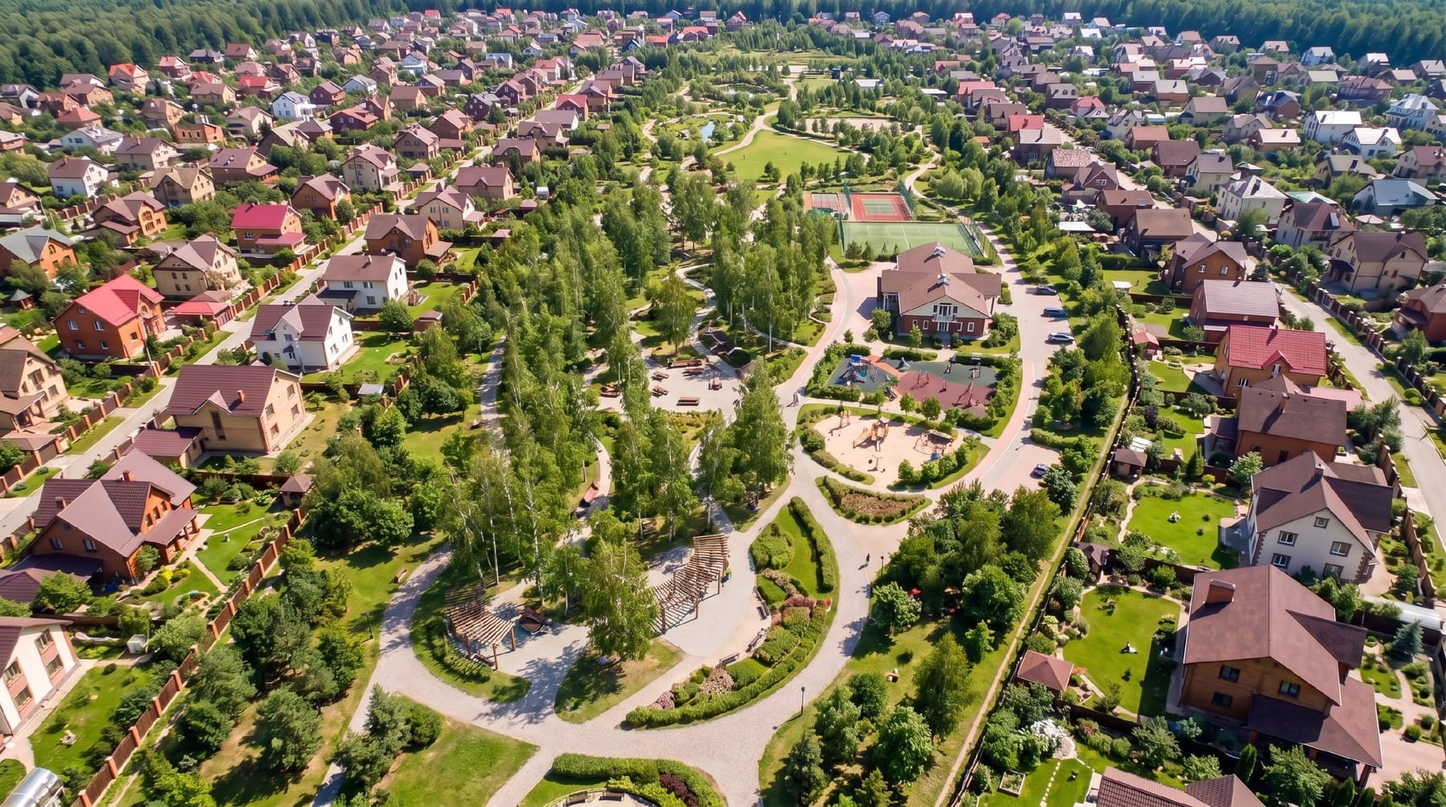
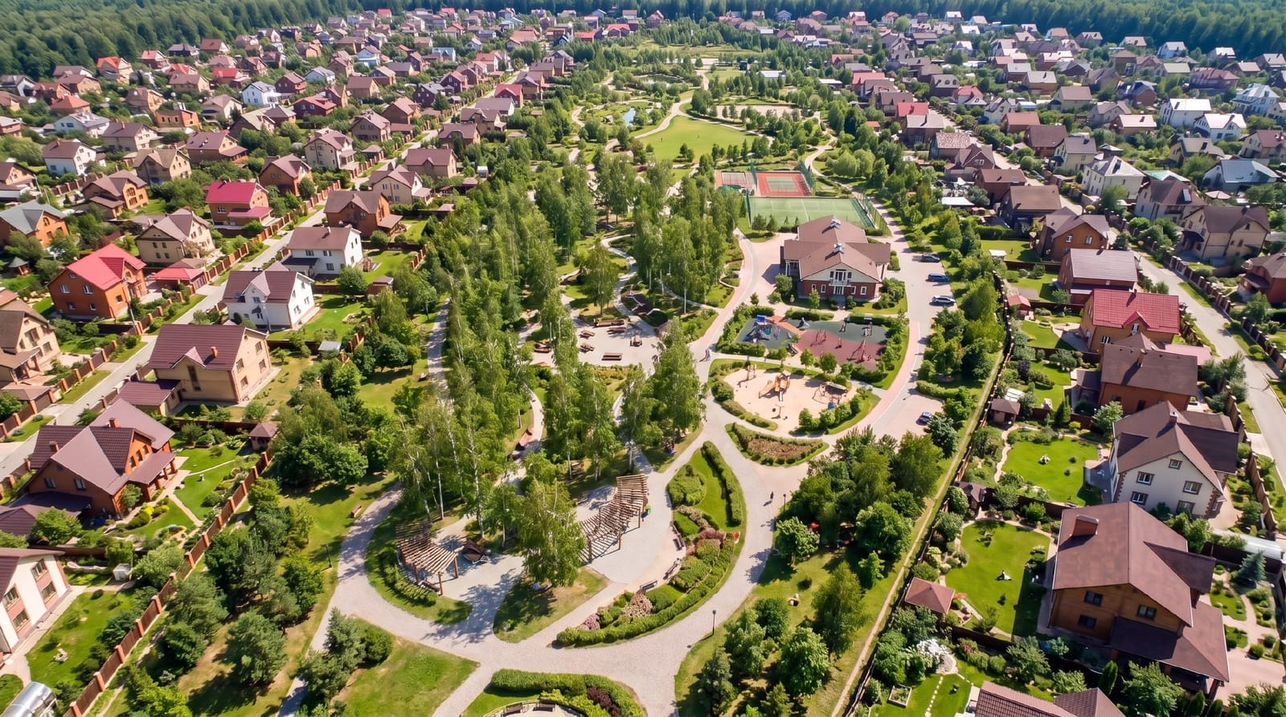
Глава «Парк»: кадр уменьшен до 800px по центру (вариант 6)
Выбор клиента с park-size-test.html.

- .chp-park .cg-bleed: width min(800px,92vw) вместо 1600px
- p1-park-osnovnoe.jpg пересобран под новый слот: 1600x893, 365 КБ
  (двойная плотность для 800px; прежние 1800 были под полосу 1600)
- кадр по-прежнему целиком, обрезки нет

Changed region(s): [[0.4688, 0.6652, 0.5, 0.7256], [0.3125, 0.7559, 0.3438, 0.7861]]

diff --git a/akvatoriya-index.html b/akvatoriya-index.html
@@ -904,7 +904,7 @@ body.mo,body.lbo{overflow:hidden}
    главы идёт полосой до 1600px по центру: пропорция блока равна пропорции
    снимка, обрезки нет вообще, высота около 890px укладывается в экран. */
 .chp-park .cg-bleed{height:auto;aspect-ratio:2560/1428;
-  width:min(1600px,92vw);margin-inline:auto}
+  width:min(800px,92vw);margin-inline:auto}
 .cg-bleed::after{content:"";position:absolute;left:0;right:0;bottom:0;height:46%;z-index:1;
   background:linear-gradient(to top,rgba(6,18,13,.58),rgba(6,18,13,0))}
 .cg-note-on{position:absolute;z-index:2;left:var(--gutter);right:var(--gutter);
@@ -1389,7 +1389,7 @@ body.mo,body.lbo{overflow:hidden}
          реки с парком по берегу. Пропорция сменилась с 1:1 на 3:2, поэтому
          размеры и точка кадрирования пересчитаны: держим реку в кадре. -->
     <!-- кадр целиком, обрезки нет: пропорция блока равна пропорции снимка -->
-    <div class="cg-f cg-r"><img src="assets/gallery/p1-park-osnovnoe.jpg" alt="Парк посёлка с высоты: берёзовые аллеи и дорожки для прогулок, детские и спортивные площадки, поляны" width="1800" height="1004" loading="lazy"></div>
+    <div class="cg-f cg-r"><img src="assets/gallery/p1-park-osnovnoe.jpg" alt="Парк посёлка с высоты: берёзовые аллеи и дорожки для прогулок, детские и спортивные площадки, поляны" width="1600" height="893" loading="lazy"></div>
     <!-- подпись на кадре убрана по правке клиента 31.07 -->
   </div>
   <div class="wrap">
